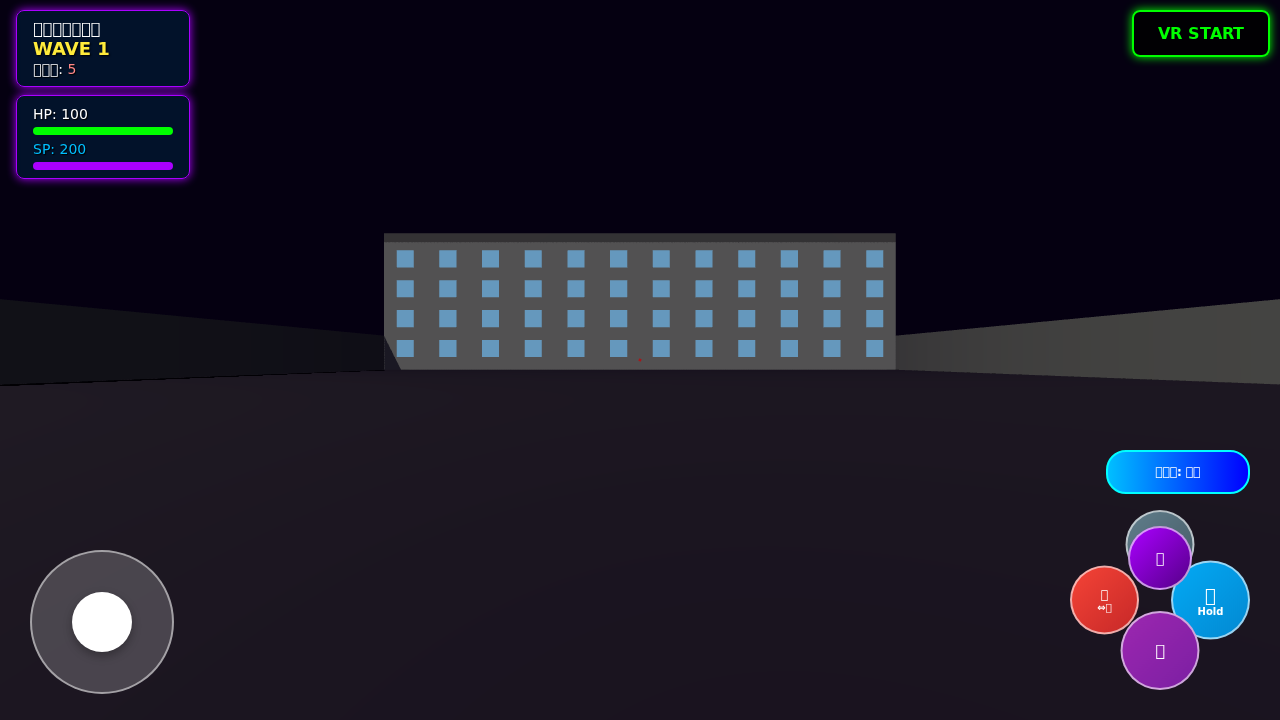
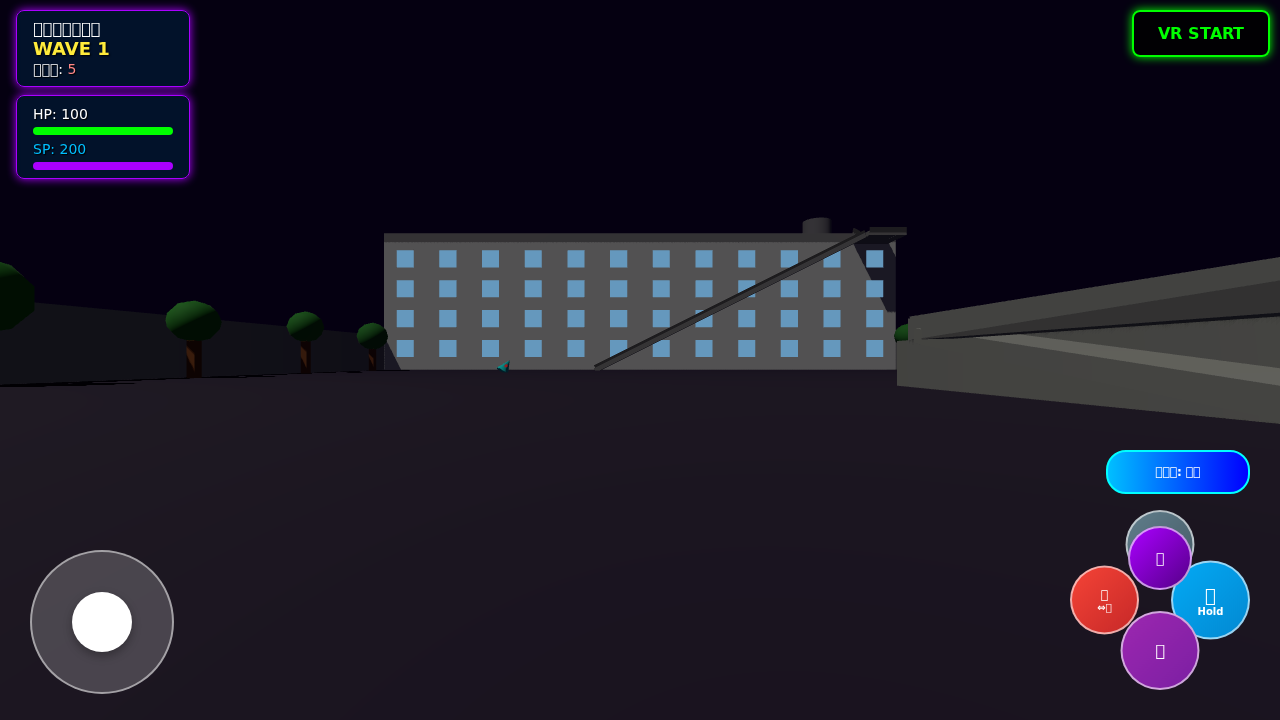
Refactor Kekkai VR to Dual Modes with Awakened Mode and UX Fixes

diff --git a/src/modes/standard.js b/src/modes/standard.js
@@ -330,7 +330,7 @@ export class StandardMode extends BaseMode {
         for(let i=-FW/2+5;i<FW/2;i+=10)for(let j=5;j<28;j+=7){const w=new THREE.Mesh(new THREE.PlaneGeometry(4,4),new THREE.MeshBasicMaterial({color:0x87CEFA})); w.position.set(i,j,bZ+20+0.1); scene.add(w);}
         createBox(0, bH+1, bZ, FW, 2, 40, CFG.colors.concrete);
 
-        // Ramps and details (Simplified from original for brevity, but retaining functional blocks)
+        // Ramps and details
         const rampH = 0.6, rampW = 1.2;
         const createRampFence = (x, z, length, rotY) => {
             const shape = new THREE.Shape(); shape.moveTo(0,0); shape.lineTo(0, rampH); shape.lineTo(rampW, 0); shape.lineTo(0,0);
@@ -343,9 +343,45 @@ export class StandardMode extends BaseMode {
             b.addShape(new CANNON.Box(new CANNON.Vec3(0.1, rampH/2, length/2)), new CANNON.Vec3(0, rampH/2, 0));
             b.position.set(x, bH+1, z); b.quaternion.setFromAxisAngle(new CANNON.Vec3(0,1,0), rotY); world.addBody(b);
         };
-        createRampFence(0, bZ-20, FW, -Math.PI/2);
+        createRampFence(0, bZ-20, FW, -Math.PI/2); createRampFence(-FW/2, bZ, 40, 0); createRampFence(FW/2, bZ, 40, Math.PI);
+        const landW=8; const gapW = landW + 2; const landX = FW/2 - landW/2 - 2; const gapStart = landX - gapW/2; const gapEnd = landX + gapW/2;
+        createRampFence((-FW/2 + gapStart)/2, bZ+20, gapStart - (-FW/2), Math.PI/2); createRampFence((gapEnd + FW/2)/2, bZ+20, FW/2 - gapEnd, Math.PI/2);
+
+        const wtX = FW/2 - 8, wtZ = bZ - 8, wtBaseH = bH+2; const wtTank = new THREE.Mesh(new THREE.CylinderGeometry(4, 4, 6, 16), new THREE.MeshStandardMaterial({color: CFG.colors.concrete})); wtTank.position.set(wtX, wtBaseH + 8, wtZ); wtTank.castShadow=true; scene.add(wtTank); const wtTankBody = new CANNON.Body({mass:0, material:mat}); wtTankBody.addShape(new CANNON.Cylinder(4,4,6,16)); wtTankBody.position.copy(wtTank.position); world.addBody(wtTankBody);
+        for(let i=0; i<4; i++){ const ang = i * Math.PI/2; const m=new THREE.Mesh(new THREE.BoxGeometry(0.5,5,0.5), new THREE.MeshStandardMaterial({color:CFG.colors.iron})); m.position.set(wtX + Math.cos(ang)*3, wtBaseH + 2.5, wtZ + Math.sin(ang)*3); scene.add(m); }
+
+        const stW=6, stRise=bH, stRun=60; const landD=stW+2; const landY = bH; const landZ = bZ + 20 + landD/2;
+        createBox(landX, landY, landZ, landW, 1, landD, CFG.colors.concrete);
+        const slLen=Math.sqrt(stRun**2+stRise**2), slAng=Math.atan2(stRise, stRun); const slMidX = landX - landW/2 - stRun/2; const slMidY = stRise/2; const slZ = bZ + 20 + stW/2 + 0.05;
+        const slB=new CANNON.Body({mass:0,material:mat}); slB.addShape(new CANNON.Box(new CANNON.Vec3(slLen/2,0.5,stW/2))); slB.position.set(slMidX, slMidY, slZ); const slQ = new THREE.Quaternion(); slQ.setFromEuler(new THREE.Euler(0,0,slAng)); slB.quaternion.copy(slQ); world.addBody(slB);
+        const slM=new THREE.Mesh(new THREE.BoxGeometry(slLen,1,stW), new THREE.MeshStandardMaterial({color:CFG.colors.concrete})); slM.position.copy(slB.position); slM.quaternion.copy(slB.quaternion); scene.add(slM);
+
+        const brRun=3.0, brRise=1.5; const brLen=Math.sqrt(brRun**2+brRise**2)+0.5; const brAng=Math.atan2(brRise, brRun);
+        const brB = new CANNON.Body({mass:0, material:mat}); brB.addShape(new CANNON.Box(new CANNON.Vec3(landW/2, 0.2, brLen/2))); brB.position.set(landX, bH + 0.5 + brRise/2, bZ + 21.5); brB.quaternion.setFromEuler(brAng, 0, 0); world.addBody(brB);
+        const brM = new THREE.Mesh(new THREE.BoxGeometry(landW, 0.4, brLen), new THREE.MeshStandardMaterial({color:CFG.colors.concrete})); brM.position.copy(brB.position); brM.quaternion.copy(brB.quaternion); scene.add(brM);
+
+        const hrH=1.2, hrT=0.1; const cRail = (x,y,z,w,h,d,rx=0,ry=0,rz=0) => { const m=new THREE.Mesh(new THREE.BoxGeometry(w,h,d), new THREE.MeshStandardMaterial({color:CFG.colors.iron})); m.position.set(x,y,z); m.rotation.set(rx,ry,rz); scene.add(m); const b=new CANNON.Body({mass:0,material:mat}); b.addShape(new CANNON.Box(new CANNON.Vec3(w/2,h/2,d/2))); b.position.copy(m.position); b.quaternion.copy(m.quaternion); world.addBody(b); };
+        cRail(slMidX, slMidY+hrH/2, slZ-stW/2+hrT/2+0.05, slLen, hrH, hrT, 0,0,slAng); cRail(slMidX, slMidY+hrH/2, slZ+stW/2-hrT/2-0.05, slLen, hrH, hrT, 0,0,slAng);
+        cRail(landX, landY+hrH/2, landZ+landD/2-hrT/2, landW, hrH, hrT); cRail(landX+landW/2-hrT/2, landY+hrH/2, landZ, hrT, hrH, landD);
+        cRail(landX-landW/2+hrT/2, bH+0.5+brRise/2+hrH/2, bZ+21.5, hrT, hrH, brLen, brAng,0,0); cRail(landX+landW/2-hrT/2, bH+0.5+brRise/2+hrH/2, bZ+21.5, hrT, hrH, brLen, brAng,0,0);
+
+        const pX = 35, pZ = 10, pW = 20, pD = 40, pBaseH = 4;
+        createBox(pX, pBaseH/2, pZ, pW+4, pBaseH, pD+4, CFG.colors.concrete);
+        createBox(pX, pBaseH+1, pZ - pD/2 - 1, pW+2, 2, 2, CFG.colors.concrete); createBox(pX, pBaseH+1, pZ + pD/2 + 1, pW+2, 2, 2, CFG.colors.concrete); createBox(pX - pW/2 - 1, pBaseH+1, pZ, 2, 2, pD, CFG.colors.concrete); createBox(pX + pW/2 + 1, pBaseH+1, pZ, 2, 2, pD, CFG.colors.concrete);
+        const water = new THREE.Mesh(new THREE.PlaneGeometry(pW, pD), new THREE.MeshBasicMaterial({color:0x00aaff, transparent:true, opacity:0.6, side:THREE.DoubleSide})); water.rotation.x = -Math.PI/2; water.position.set(pX, pBaseH+1.5, pZ); scene.add(water);
+        const prRun=25, prRise=pBaseH, prW=4; const prLen=Math.sqrt(prRun**2+prRise**2), prAng=Math.atan2(prRise, prRun);
+        const prMidY = prRise/2; const prMidZ = pZ;
+        const prMidX_L = pX - pW/2 - prW/2 - 2; const prB_L=new CANNON.Body({mass:0,material:mat}); prB_L.addShape(new CANNON.Box(new CANNON.Vec3(prW/2, 0.5, prLen/2))); prB_L.position.set(prMidX_L, prMidY, prMidZ); const prQ_L = new THREE.Quaternion(); prQ_L.setFromEuler(new THREE.Euler(prAng, 0, 0)); prB_L.quaternion.copy(prQ_L); world.addBody(prB_L); const prM_L=new THREE.Mesh(new THREE.BoxGeometry(prW, 1, prLen), new THREE.MeshStandardMaterial({color:CFG.colors.concrete})); prM_L.position.copy(prB_L.position); prM_L.quaternion.copy(prB_L.quaternion); scene.add(prM_L);
+        const prMidX_R = pX + pW/2 + prW/2 + 2; const prB_R=new CANNON.Body({mass:0,material:mat}); prB_R.addShape(new CANNON.Box(new CANNON.Vec3(prW/2, 0.5, prLen/2))); prB_R.position.set(prMidX_R, prMidY, prMidZ); const prQ_R = new THREE.Quaternion(); prQ_R.setFromEuler(new THREE.Euler(prAng, 0, 0)); prB_R.quaternion.copy(prQ_R); world.addBody(prB_R); const prM_R=new THREE.Mesh(new THREE.BoxGeometry(prW, 1, prLen), new THREE.MeshStandardMaterial({color:CFG.colors.concrete})); prM_R.position.copy(prB_R.position); prM_R.quaternion.copy(prB_R.quaternion); scene.add(prM_R);
 
         // Gate
         const gZ = FD/2; createBox(-gateW/2-1, 4, gZ, 2, 8, 2, CFG.colors.wall); createBox(gateW/2+1, 4, gZ, 2, 8, 2, CFG.colors.wall);
+        for(let i=-gateW/2; i<=gateW/2; i+=1.0) createVisualBox(i, 3, gZ, 0.2, 6, 0.2, CFG.colors.iron);
+        createVisualBox(0, 5.5, gZ, gateW, 0.3, 0.3, CFG.colors.iron); createVisualBox(0, 0.5, gZ, gateW, 0.3, 0.3, CFG.colors.iron);
+        const gateB = new CANNON.Body({mass:0, material:mat}); gateB.addShape(new CANNON.Box(new CANNON.Vec3(gateW/2, 3, 0.1))); gateB.position.set(0, 3, gZ); world.addBody(gateB);
+        const createTree = (x, z) => { const trunkH = 4 + Math.random()*2; createBox(x, trunkH/2, z, 1, trunkH, 1, CFG.colors.wood); const leaves = new THREE.Mesh(new THREE.IcosahedronGeometry(2.5 + Math.random(), 1), new THREE.MeshStandardMaterial({color:CFG.colors.leaf, roughness:0.8})); leaves.position.set(x, trunkH+2, z); leaves.castShadow=true; scene.add(leaves); };
+        for(let i=0; i<5; i++) createTree(-FW/2+3, -FD/2 + 10 + i*20); for(let i=0; i<5; i++) createTree(FW/2-3, -FD/2 + 10 + i*20);
+
+        function createVisualBox(x,y,z,w,h,d,col,rotY=0){ const m=new THREE.Mesh(new THREE.BoxGeometry(w,h,d),new THREE.MeshStandardMaterial({color:col})); m.position.set(x,y,z); m.rotation.y=rotY; m.castShadow=true; m.receiveShadow=true; scene.add(m); return m; }
     }
 }

diff --git a/src/entities/player.js b/src/entities/player.js
@@ -55,6 +55,11 @@ export class Player {
         // Physics Sync
         this.game.playerGroup.position.copy(this.body.position).add(new THREE.Vector3(0, this.config.height, 0));
 
+        // Skating Mechanic (Speed Boost on Barriers)
+        this.raycaster.set(this.body.position, new THREE.Vector3(0,-1,0));
+        const hits = this.raycaster.intersectObjects(this.game.entities.kekkai.map(k=>k.mesh));
+        this.speedMult = (hits.length > 0 && hits[0].distance < 1.5) ? 1.8 : 1.0;
+
         if (this.game.renderer.xr.isPresenting) {
             this.handleVRInput(dt);
         } else {
@@ -94,8 +99,8 @@ export class Player {
 
     handleMobileInput(dt) {
         const fwd = new THREE.Vector3(this.input.x, 0, this.input.y).applyAxisAngle(new THREE.Vector3(0,1,0), this.camAngle.yaw);
-        this.body.velocity.x = fwd.x * this.config.speed;
-        this.body.velocity.z = fwd.z * this.config.speed;
+        this.body.velocity.x = fwd.x * this.config.speed * (this.speedMult || 1.0);
+        this.body.velocity.z = fwd.z * this.config.speed * (this.speedMult || 1.0);
 
         this.game.playerGroup.rotation.y = this.camAngle.yaw;
         this.game.camera.rotation.x = this.camAngle.pitch;
@@ -122,8 +127,8 @@ export class Player {
                 const stickX = gp.axes[2]; const stickY = gp.axes[3];
                 if(Math.abs(stickX) > 0.1 || Math.abs(stickY) > 0.1) {
                     const v = _vecDir.clone().multiplyScalar(-stickY).add(_vecRight.clone().multiplyScalar(-stickX));
-                    this.body.velocity.x = v.x * this.config.speed;
-                    this.body.velocity.z = v.z * this.config.speed;
+                    this.body.velocity.x = v.x * this.config.speed * (this.speedMult || 1.0);
+                    this.body.velocity.z = v.z * this.config.speed * (this.speedMult || 1.0);
                 } else {
                     this.body.velocity.x = 0; this.body.velocity.z = 0;
                 }
@@ -309,8 +314,9 @@ export class Player {
             }
         }, {passive:false});
 
-        this.game.renderer.domElement.addEventListener('touchmove', e => {
-            e.preventDefault(); if(!lookId) return;
+        window.addEventListener('touchmove', e => {
+            if(!lookId) return;
+            // e.preventDefault(); // Don't prevent default on window globally, it might break other things
             for(let i=0; i<e.changedTouches.length; i++) {
                 if(e.changedTouches[i].identifier === lookId) {
                     const t = e.changedTouches[i];
@@ -322,9 +328,11 @@ export class Player {
             }
         }, {passive:false});
 
-        this.game.renderer.domElement.addEventListener('touchend', e => {
+        const endLook = (e) => {
             for(let i=0; i<e.changedTouches.length; i++) if(e.changedTouches[i].identifier===lookId) lookId=null;
-        });
+        };
+        window.addEventListener('touchend', endLook);
+        window.addEventListener('touchcancel', endLook);
 
         // Buttons
         document.getElementById('btnDown').addEventListener('touchstart', e => { e.preventDefault(); this.jump(); });
@@ -608,7 +616,43 @@ export class Player {
             positions[3] = this.game.aimMarker.position.x; positions[4] = this.game.aimMarker.position.y; positions[5] = this.game.aimMarker.position.z;
             this.game.focusLaser.geometry.attributes.position.needsUpdate = true;
 
-            this.game.currentTargetKekkai = null;
+            // Check for Kekkai even in Smart Aim mode to allow Metsu
+            let bestCandidate = null;
+            this.raycaster.set(_vecPos, _vecDir);
+            const intersects = this.raycaster.intersectObjects(this.game.entities.kekkai.map(k => k.mesh));
+            if (intersects.length > 0) bestCandidate = this.game.entities.kekkai.find(k => k.mesh === intersects[0].object);
+
+            if(!bestCandidate) {
+                let minD = 999;
+                this.game.entities.kekkai.forEach(k => {
+                    const kPos = k.mesh.position;
+                    const vecToK = kPos.clone().sub(_vecPos);
+                    const t = vecToK.dot(_vecDir);
+                    if (t > 0 && t < this.game.mode.config.dist.max + 20) {
+                        const closestPoint = _vecPos.clone().add(_vecDir.clone().multiplyScalar(t));
+                        const dist = kPos.distanceTo(closestPoint);
+                        const size = Math.max(k.mesh.scale.x, k.mesh.scale.y, k.mesh.scale.z);
+                        if (dist < this.game.mode.config.aimAssist.baseRadius + (size * 0.5)) {
+                            if(dist < minD){ minD = dist; bestCandidate = k; }
+                        }
+                    }
+                });
+            }
+
+            // Highlight logic
+            if (this.game.currentTargetKekkai && this.game.currentTargetKekkai !== bestCandidate) {
+                if(this.game.currentTargetKekkai.edges && this.game.currentTargetKekkai.edges.material) {
+                    this.game.currentTargetKekkai.edges.material.color.setHex(0xffffff);
+                    this.game.currentTargetKekkai.edges.material.linewidth = 1;
+                }
+            }
+            this.game.currentTargetKekkai = bestCandidate;
+            if (this.game.currentTargetKekkai) {
+                if(this.game.currentTargetKekkai.edges && this.game.currentTargetKekkai.edges.material) {
+                    this.game.currentTargetKekkai.edges.material.color.setHex(this.game.mode.config.colors.highlight);
+                    this.game.currentTargetKekkai.edges.material.linewidth = 3;
+                }
+            }
 
         } else {
             // Standard Aim Logic

diff --git a/src/game.js b/src/game.js
@@ -184,6 +184,28 @@ export class Game {
         this.mode.update(dt, t);
         this.player.update(dt);
 
+        // Target Arrow Update
+        const target = this.entities.enemies.find(e => e.isTarget || e.isBoss);
+        if(target && this.targetArrow) {
+            this.targetArrow.visible = true;
+            const _vecPos = new THREE.Vector3(); const _vecDir = new THREE.Vector3(); const _vecUp = new THREE.Vector3(0,1,0); const _vecRight = new THREE.Vector3();
+            this.camera.getWorldPosition(_vecPos); this.camera.getWorldDirection(_vecDir);
+            _vecRight.crossVectors(_vecDir, _vecUp).normalize();
+            this.targetArrow.scale.set(0.6, 0.6, 0.6);
+            this.targetArrow.position.copy(_vecPos).add(_vecDir.multiplyScalar(1.5)).add(_vecRight.multiplyScalar(0.4));
+            this.targetArrow.lookAt(target.body.position.x, target.body.position.y, target.body.position.z);
+            this.targetArrow.rotateX(Math.PI/2);
+            target.time = (target.time||0) + dt;
+            if(target.mesh.material && target.mesh.material.emissiveIntensity !== undefined)
+                target.mesh.material.emissiveIntensity = 0.5 + Math.sin(target.time*5) * 0.5;
+            if(target.mesh.children[0]) {
+                target.mesh.children[0].position.y = 2 + Math.sin(target.time*3)*0.5;
+                target.mesh.children[0].rotation.z += dt*2;
+            }
+        } else if(this.targetArrow) {
+            this.targetArrow.visible = false;
+        }
+
         // Update entities
         this.entities.enemies.forEach(e => {
             if(e.update) e.update(dt, t);
